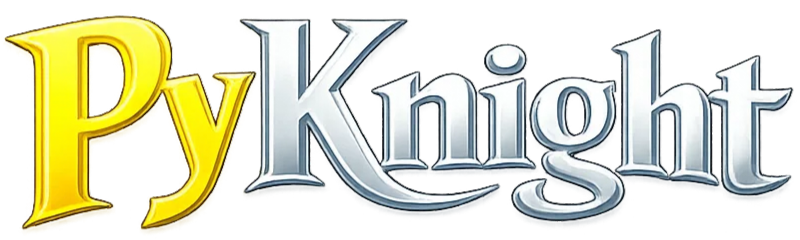
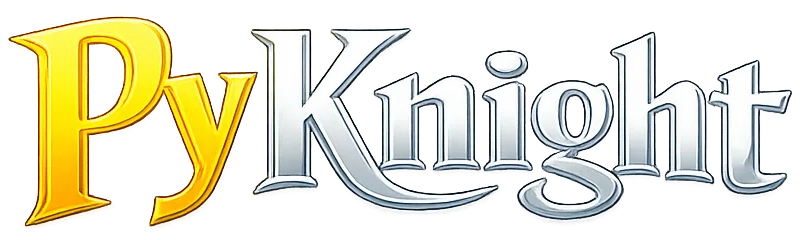
Updated assets

Changed region(s): [[0.0, 0.0583, 1.0, 0.9625]]

diff --git a/assets.py b/assets.py
@@ -5,8 +5,8 @@ import os
 icon = "assets/brand/logo256.png"
 
 #brand
-logo = "assets/brand/logo256.png"
-namelogo = "assets/brand/name256.png"
+logo = "assets/brand/logo720.png"
+namelogo = "assets/brand/name800.png"
 
 #sizes
 iconsize = 64
